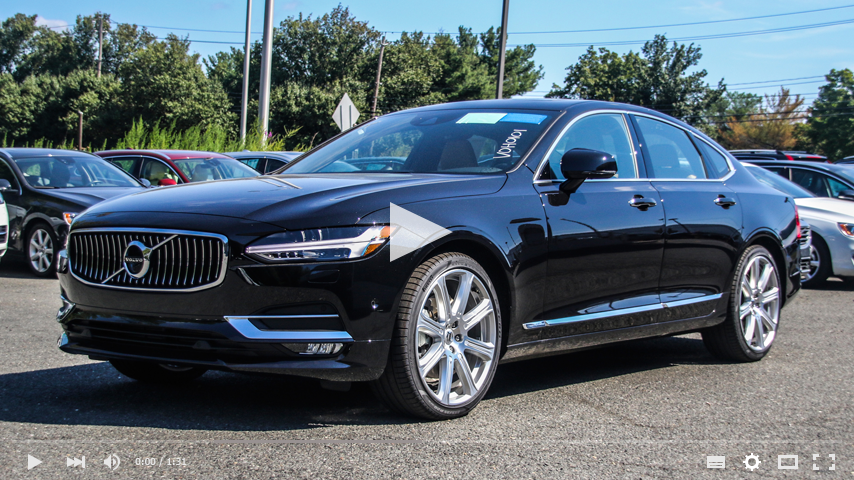
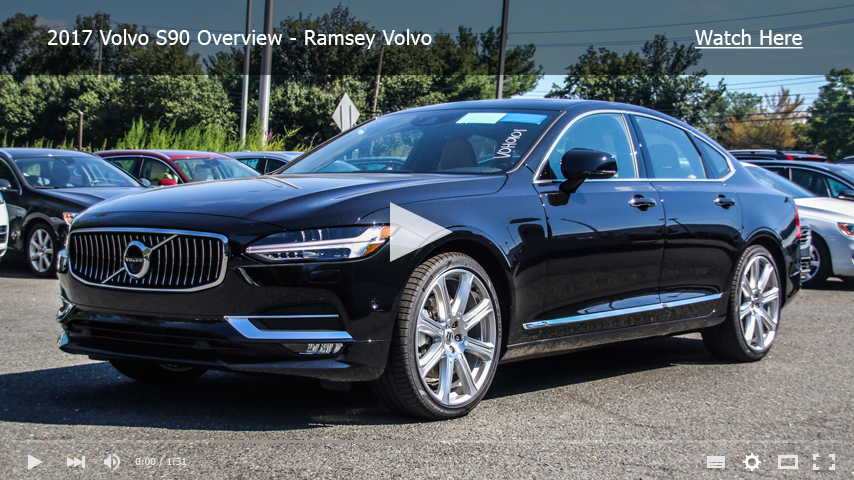
Replaced Youtube Mock

Changed region(s): [[0.0, 0.0, 1.0, 0.1562]]

diff --git a/pages/s90Blast.html b/pages/s90Blast.html
@@ -357,9 +357,14 @@
 
                                             	<!-- // Begin Module: Standard Header Image \\ -->
                                               <img src="http://www.volvocars.com/static/images/volvo-logo-scaled.png" alt="volvo logo" width="50px" style="padding:10px 0;"/>
-                                            	<img src="http://joethemovie.com/images/s90Youtube.png" style="width:600px;" id="headerImage campaign-icon" mc:label="header_image" mc:edit="header_image" mc:allowdesigner mc:allowtext />
-                                            	<!-- // End Module: Standard Header Image \\ -->
 
+                                            	<!-- // End Module: Standard Header Image \\ -->
+                                              <a href="http://www.volvocarsramsey.com/new-inventory/index.htm?search=&saveFacetState=true&year=&model=S90&bodyStyle=&lastFacetInteracted=inventory-listing1-facet-anchor-model-5"><img src="http://joethemovie.com/images/s90_1.png" style="width:600px;" id="headerImage campaign-icon" mc:label="header_image" mc:edit="header_image" mc:allowdesigner mc:allowtext /></a>
+
+                                              <a href="https://www.youtube.com/watch?v=nt2uhjTSGdA"><img src="http://joethemovie.com/images/s90Youtube.png" style="width:600px;" id="headerImage campaign-icon" mc:label="header_image" mc:edit="header_image" mc:allowdesigner mc:allowtext /></a>
+                                              <a href="http://www.volvocarsramsey.com/2017-volvo-s90.htm"><img src="http://joethemovie.com/images/s90_2.png" style="width:600px;" id="headerImage campaign-icon" mc:label="header_image" mc:edit="header_image" mc:allowdesigner mc:allowtext /></a>
+                                              <a href="http://www.volvocarsramsey.com/new-inventory/index.htm?search=&saveFacetState=true&year=&model=S90&bodyStyle=&lastFacetInteracted=inventory-listing1-facet-anchor-model-5"><img src="http://joethemovie.com/images/s90_3.png" style="width:600px;" id="headerImage campaign-icon" mc:label="header_image" mc:edit="header_image" mc:allowdesigner mc:allowtext /></a>
+                                              <a href="http://www.volvocarsramsey.com/2017-volvo-s90.htm"><img src="http://joethemovie.com/images/s90_4.png" style="width:600px;" id="headerImage campaign-icon" mc:label="header_image" mc:edit="header_image" mc:allowdesigner mc:allowtext /></a>
                                             </td>
                                         </tr>
                                     </table>
@@ -379,46 +384,14 @@
                                                         <td valign="top">
                                                             <div mc:edit="std_content00">
 
-                                                                <h2 class="h2">The Luxury Sedan of 2016</h2>
 
-                                                                Introducing the new Volvo S90. Redefining luxury with elegant Scandinavian design and semi-autonomous driving technology as standard.
                                                             </div>
 														</td>
                                                     </tr>
                                                 </table>
                                                 <!-- // End Module: Standard Content \\ -->
 
-                                                <!-- // Begin Module: Left Image with Content \\ -->
-                                                <table border="0" cellpadding="20" cellspacing="0" width="100%" mc:repeatable="siwc_600" mc:variant="content with left image">
-                                                    <tr>
-                                                        <td align="center" valign="top">
-                                                            <img src="http://gallery.mailchimp.com/653153ae841fd11de66ad181a/images/placeholder_260.gif" style="max-width:250px;" mc:label="image" mc:edit="liwc600_image00" />
-                                                        </td>
-                                                        <td valign="top">
-                                                            <div mc:edit="liwc600_content00">
- 	                                                           <h4 class="h4">Heading 4</h4>
-                                                               <strong>Variable content blocks:</strong> <a href="http://www.mailchimp.com/kb/article/how-do-i-work-with-repeatable-content-blocks" target="_blank">Variable content sections</a> are noted with plus and minus signs so that you can add and subtract content blocks and also a drop-down selector that allows you to choose which type of content block to display.
-                                                            </div>
-                                                        </td>
-                                                    </tr>
-                                                </table>
-                                                <!-- // End Module: Left Image with Content \\ -->
 
-                                                <!-- // Begin Module: Right Image with Content \\ -->
-                                                <table border="0" cellpadding="20" cellspacing="0" width="100%" mc:repeatable="siwc_600" mc:variant="content with right image">
-                                                    <tr>
-                                                        <td valign="top">
-                                                            <div mc:edit="riwc600_content00">
- 	                                                           <h4 class="h4">Heading 4</h4>
-                                                               <strong>Variable content blocks:</strong> <a href="http://www.mailchimp.com/kb/article/how-do-i-work-with-repeatable-content-blocks" target="_blank">Variable content sections</a> are noted with plus and minus signs so that you can add and subtract content blocks and also a drop-down selector that allows you to choose which type of content block to display.
-                                                            </div>
-                                                        </td>
-                                                        <td align="center" valign="top">
-                                                            <img src="http://gallery.mailchimp.com/653153ae841fd11de66ad181a/images/placeholder_260.gif" style="max-width:250px;" mc:label="image" mc:edit="riwc600_image00" />
-                                                        </td>
-                                                    </tr>
-                                                </table>
-                                                <!-- // End Module: Right Image with Content \\ -->
 
                                             </td>
                                         </tr>
